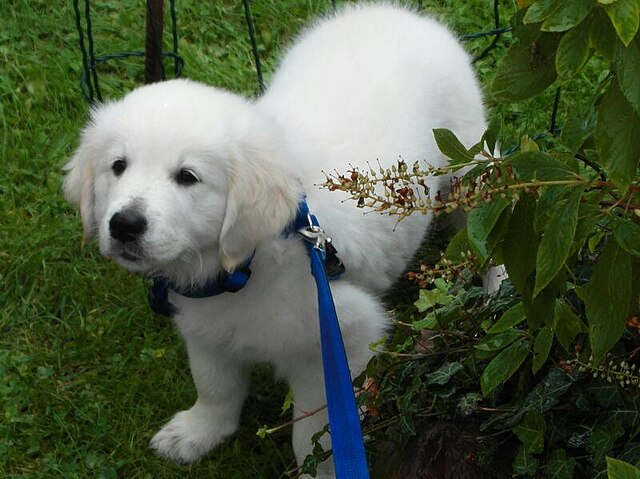
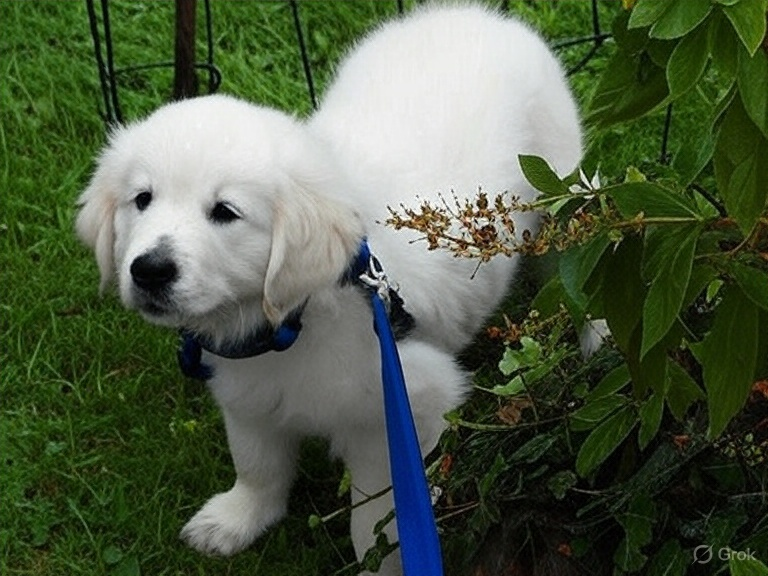
Added puppy2.jpg

diff --git a/static/index.html b/static/index.html
@@ -5,16 +5,18 @@
   <meta charset="UTF-8">
   <meta name="viewport" content="width=device-width, initial-scale=1.0">
   <link rel="stylesheet" href="/styles.css">
+  <script src="/index.js"></script>
 </head>
 <body>
   <div id="content">
     <h1>This is a simple demo.</h1>
     <h2>Please pay attention to the puppy.</h2>
     <div id="puppy-container">
-      <a onclick="document.getElementById('bark').play();">
+      <a onclick="document.getElementById('bark').play(); changePuppy(); countPet();">
         <img src="/puppy.jpg" alt="Cute Puppy" id="puppy">
       </a>
     </div>
+    <p><strong>Pets Counter:</strong> <strong id="pet-count">0</strong></p>
     <audio id="bark" src="/bark.mp3" preload="auto"></audio>
   </div>
 </body>

diff --git a/static/index.js b/static/index.js
@@ -1,0 +1,14 @@
+function changePuppy() {
+  var p = document.getElementById('puppy');
+  p.src = '/puppy2.jpg';
+  setTimeout(() => {
+    p.src = '/puppy.jpg';
+  }, 500)
+}
+
+function countPet() {
+  var p = document.getElementById('pet-count');
+  var count = parseInt(p.innerText, 10);
+  count += 1;
+  p.innerText = count;
+}

diff --git a/static/styles.css b/static/styles.css
@@ -19,7 +19,7 @@ body {
 #puppy {
   width: 100%;
   max-width: 800px;
-  height: auto;
+  max-height: 400px;
   border-radius: 10px;
   box-shadow: 0 2px 10px rgba(0, 0, 0, 0.5);
 }
